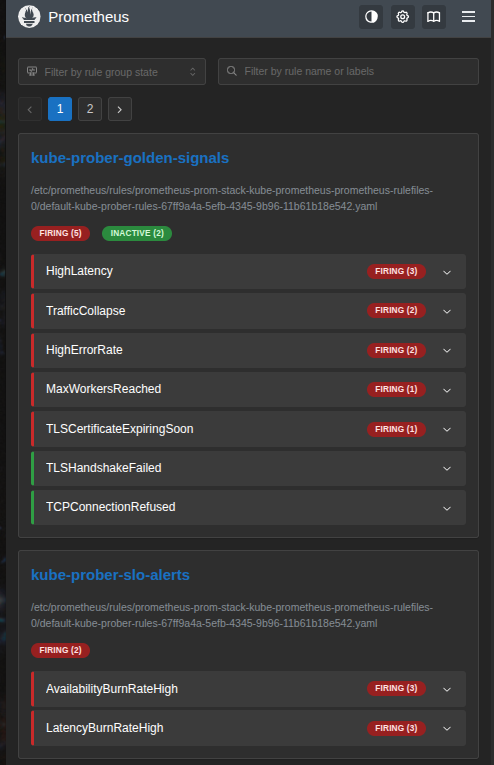
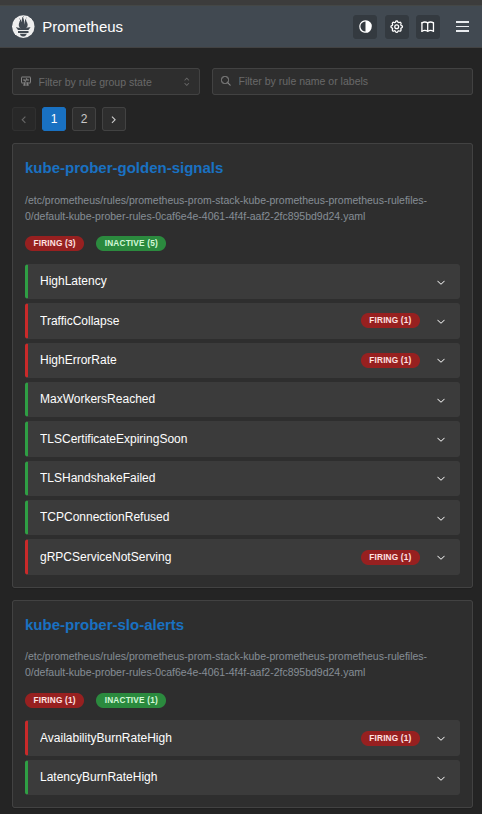
fix(monitoring): update alertmanager secret handling and values config

diff --git a/README.md b/README.md
@@ -11,7 +11,7 @@
 
 ## 📦 Container Image Specs
 
-- **Registry:** `ghcr.io/demirdilek/kube-prober:latest`
+- **Registry:** `ghcr.io/demirdilek/kube-prober:1.0.0`
 - **Base Image:** `scratch` (Minimalist & secure zero-OS runtime)
 - **Architecture:** Multi-Arch (`amd64` / `arm64`)
 
@@ -53,7 +53,7 @@ The `kube-prober` microservice acts as the central observability engine. Using a
    |                                                        |
    +--(HPA / PDB Supervision)-----------------> (Thread-Safe Local Registry)
                                                             |
-                                               (Concurrent HTTP/DNS Probes)
+                                             (Concurrent Multi-Protocol Probes)
                                                             v
                                                    [ Target Services ]
                                                             |
@@ -131,19 +131,19 @@ The `kube-prober` microservice acts as the central observability engine. Using a
 You can manage the local development cluster and the entire stack lifecycle using the provided `Makefile`:
 
 ```bash
-# Spin up the entire stack from scratch (k3d, Docker build, Prometheus, Argo CD, Helm deployment)
-make all
+# Spin up the entire stack from scratch (k3d cluster, images, Prometheus, Argo CD, Helm)
+make bootstrap
 
-# Fast local rebuild, import, pause GitOps auto-sync, and rollout restart for local debugging
+# Fast local rebuild, import, pause GitOps auto-sync, and rollout restart
 make local-deploy
 
-# Pause Argo CD Auto-Sync & Self-Healing for local debugging
-make dev-enable
+# Pause Argo CD Auto-Sync for local debugging
+make argocd-local-enable
 
-# Re-enable Argo CD Auto-Sync & Self-Healing
-make dev-disable
+# Re-enable Argo CD Auto-Sync
+make argocd-local-disable
 
-# Delete local k3d cluster and clean up local artifacts
+# Clean up temporary local build artifacts
 make clean
 
 # Start background port-forwarding for Argo CD (8080), Prometheus (9090), and Grafana (3000)

diff --git a/ROADMAP.md b/ROADMAP.md
@@ -73,3 +73,9 @@ This document outlines the planned improvements, architectural refinements, and 
 - [ ] **Skaffold Integration:** Standardize the inner development loop by transitioning from the custom Makefile to Google's Skaffold for hermetic, fast-iterating local Kubernetes deployments.
 - [ ] **SLOs as Code:** Define Service Level Objectives and Error Budgets declaratively using tools like Sloth to automatically generate complex, multi-window burn rate alerts.
 - [ ] **Context-Aware Structured Logging:** Integrate Go's native `slog` with OpenTelemetry to inject Trace IDs into log entries, enabling seamless navigation from a firing alert directly to the failing request.
+
+## Phase 6: Service Mesh Integration & Global Observability**
+
+- [ **] **Service Mesh Evaluation:** Evaluate and test a lightweight service mesh (e.g., Linkerd or Cilium) in the k3d cluster to monitor service-to-service communication.
+- [ ] **Global Mesh Metrics Integration:** Extend `kube-prober` to query central mesh metrics alongside direct endpoint probing for a complete global system overview.
+- [ ] **Unified 4 Golden Signals:** Combine internal application metrics with network-level service mesh telemetry into a single, comprehensive monitoring dashboard.
